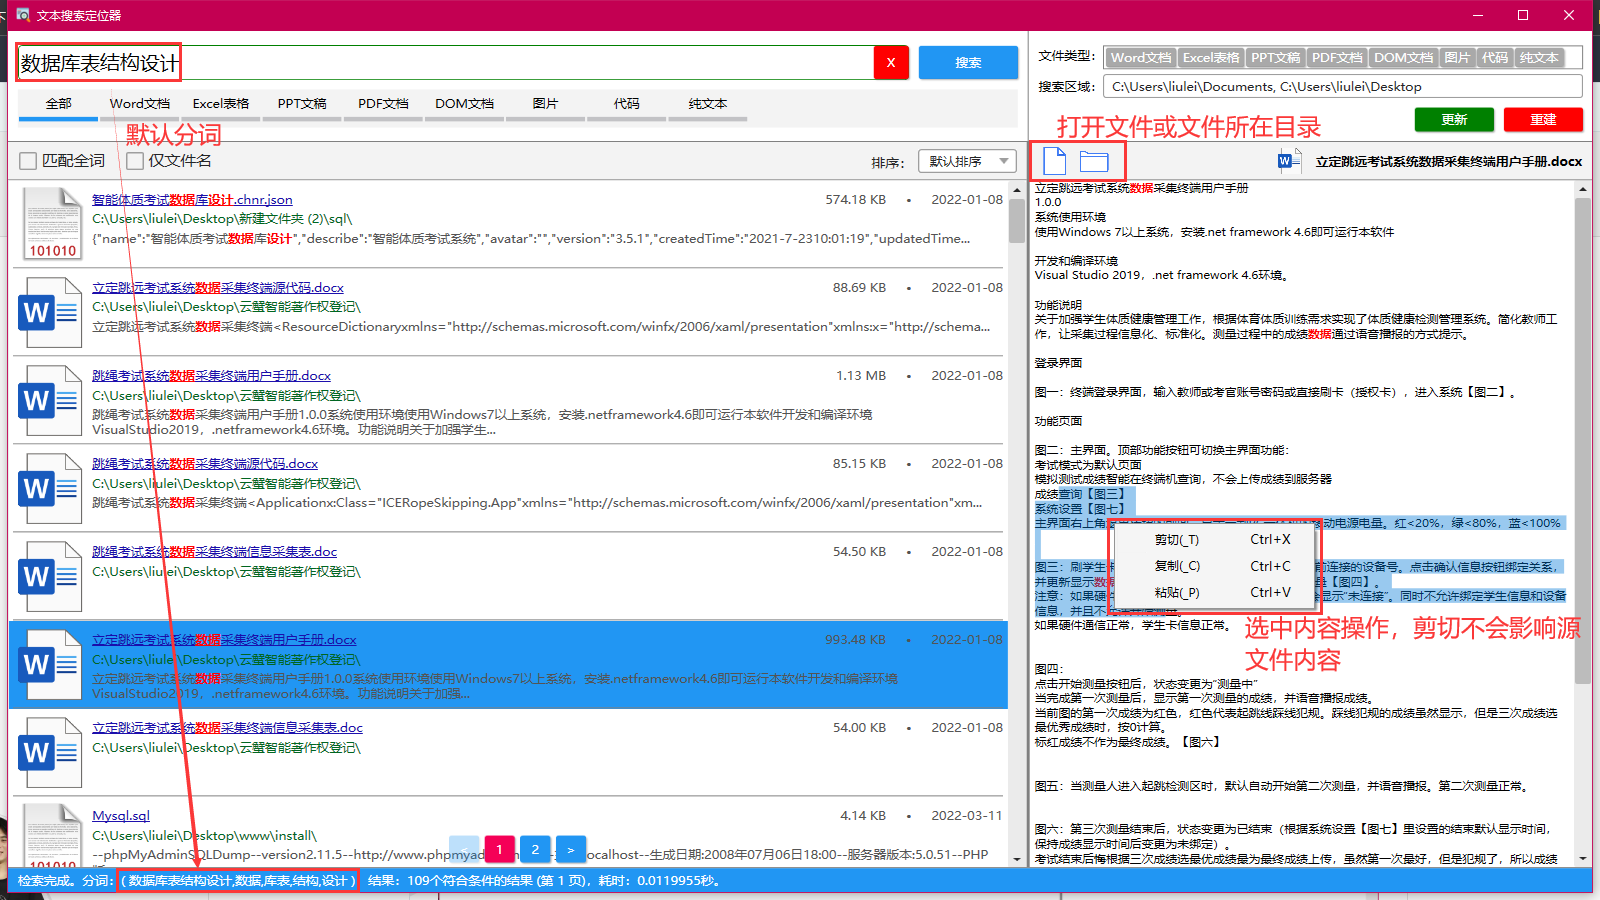
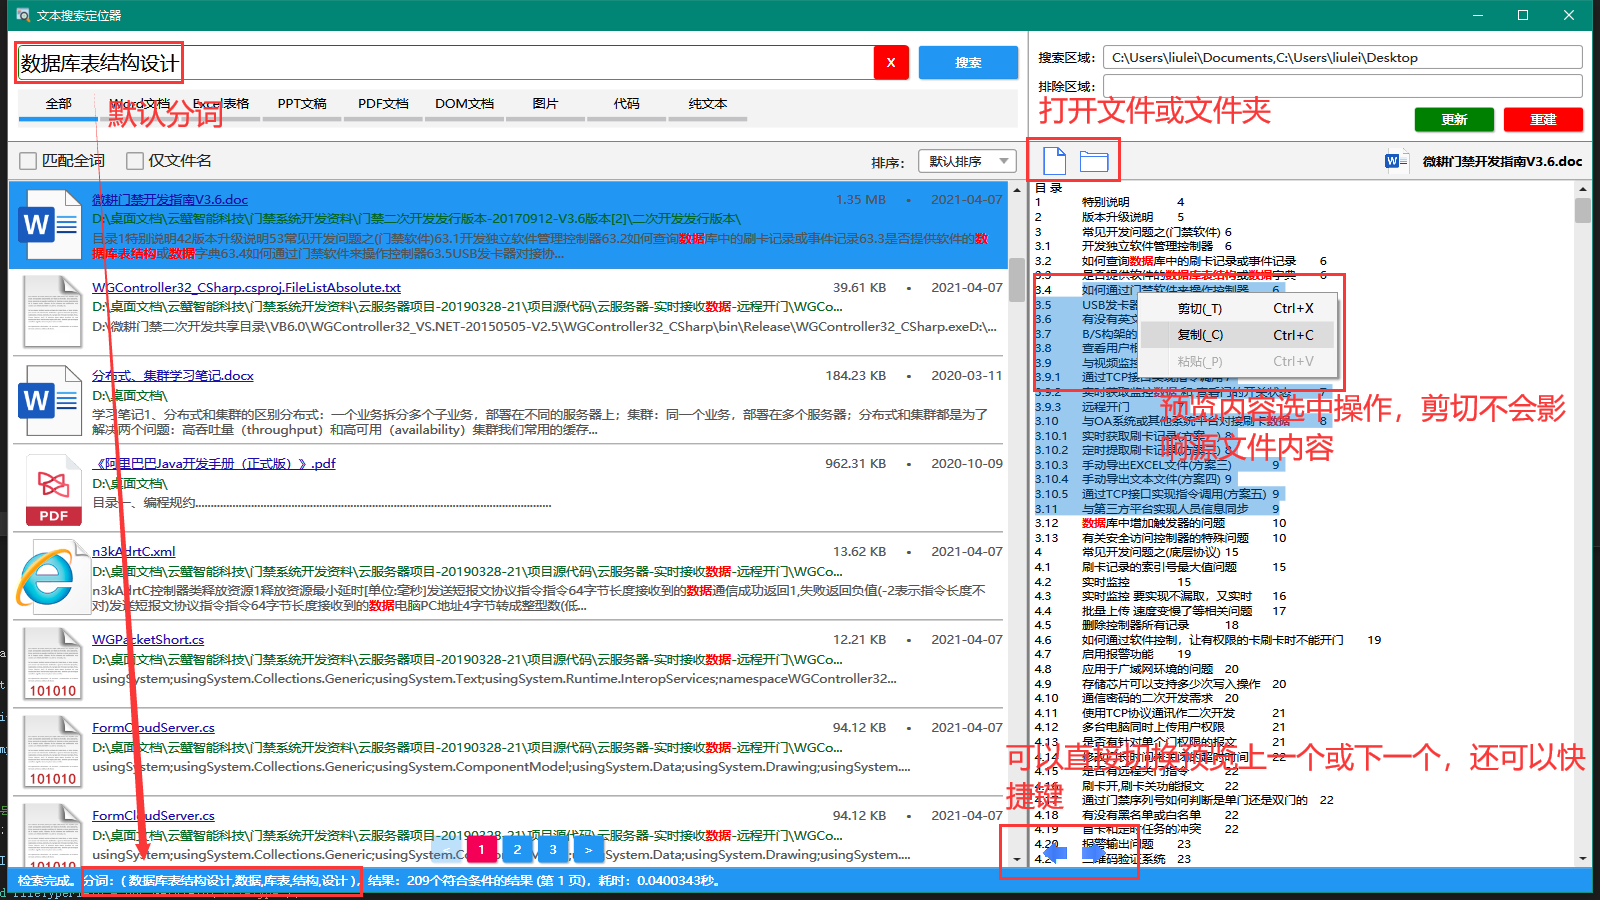
说明文档更新，

diff --git a/README.md b/README.md
@@ -9,6 +9,7 @@
 ![搜索分页](images/Page.png)
 ![重建确认](images/RebuildIndexConfirm.png)
 ![清空按钮](images/Clean.png)
+![热键设置](images/HotKey.png)
 
 #### 软件介绍
 基于.net实现的本地文档的全文索引定位器，根据关键词搜索定位本地文档内容。便于查找历史文档时节省时间，本地文本搜索神器！
